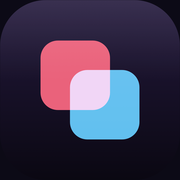
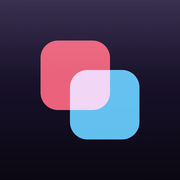
Address review: accurate FAQ claims, sturdier site check
- FileMerge answer: FileMerge follows Dark Mode, so name what is actually
  different (color themes with custom and .tmTheme import).
- Privacy answer: say the app never uploads files and that its own
  traffic is the update check and an update download, instead of
  "the only network request".
- Drop the HowTo node: it had no visible counterpart and Google no longer
  shows HowTo results. Drop the unchecked release date from llms.txt.
- Meta description trimmed to ~150 characters.
- apple-touch-icon is now full-bleed so iOS's own mask leaves no dark
  corners.
- check-site.py: 404.html references must be root-relative; missing
  MARKETING_VERSION, prerelease versions, missing FAQ fields, an empty
  lastmod, and <summary> attributes no longer crash or mislead.
- AGENTS.md Releases section notes the site version bump.

Claude-Session: https://claude.ai/code/session_01SuBK5rQL82kFLVKMsSeYU9

Changed region(s): [[0.7778, 0.0, 1.0, 0.2222], [0.0, 0.0, 0.2222, 0.2222]]

diff --git a/site/index.html b/site/index.html
@@ -4,7 +4,7 @@
   <meta charset="utf-8" />
   <meta name="viewport" content="width=device-width, initial-scale=1" />
   <title>Differentialis — free diff &amp; merge app for Mac</title>
-  <meta name="description" content="Free, open-source diff and merge app for Mac. Compare text files, pasted snippets, images, and folders, resolve three-way merges, and browse git history. Native SwiftUI." />
+  <meta name="description" content="Free, open-source diff and merge app for Mac. Compare text files, pasted snippets, images, and folders, resolve three-way merges, and browse git history." />
   <meta name="author" content="Jenny Speelman" />
   <meta name="robots" content="index, follow, max-image-preview:large" />
   <meta name="theme-color" content="#0b0a12" />
@@ -32,10 +32,10 @@
   <link rel="preconnect" href="https://fonts.gstatic.com" crossorigin />
   <link href="https://fonts.googleapis.com/css2?family=Geist:wght@400;500;600;700;800&family=Geist+Mono:wght@400;500&display=swap" rel="stylesheet" />
   <link rel="stylesheet" href="styles.css" />
-  <!-- Structured data: what the app is, where its source lives, how to install it, and the FAQ
-       shown on the page. Keep the FAQ in sync with the visible #faq section, softwareVersion and the
-       visible version with MARKETING_VERSION in project.yml, and dateModified with the sitemap's
-       lastmod; scripts/check-site.py fails if they drift. -->
+  <!-- Structured data: what the app is, where its source lives, and the FAQ shown on the page.
+       Keep the FAQ in sync with the visible #faq section, softwareVersion and the visible version
+       with MARKETING_VERSION in project.yml, and dateModified with the sitemap's lastmod;
+       scripts/check-site.py fails if they drift. -->
   <script type="application/ld+json">
   {
     "@context": "https://schema.org",
@@ -120,20 +120,6 @@
         "author": { "@id": "https://www.differentialis.app/#author" }
       },
       {
-        "@type": "HowTo",
-        "@id": "https://www.differentialis.app/#install",
-        "name": "How to install Differentialis on a Mac",
-        "description": "Install the free Differentialis diff and merge app on macOS 26 Tahoe or later.",
-        "totalTime": "PT2M",
-        "tool": [{ "@type": "HowToTool", "name": "A Mac running macOS 26 Tahoe or later" }],
-        "step": [
-          { "@type": "HowToStep", "position": 1, "name": "Download", "text": "Download the Apple-notarized Differentialis .dmg from the latest GitHub release.", "url": "https://github.com/yennster/differentialis/releases/latest" },
-          { "@type": "HowToStep", "position": 2, "name": "Install", "text": "Open the .dmg and drag Differentialis into the Applications folder." },
-          { "@type": "HowToStep", "position": 3, "name": "Open", "text": "Open Differentialis from Applications. It checks for updates itself from then on." },
-          { "@type": "HowToStep", "position": 4, "name": "Add the command-line tool (optional)", "text": "Choose Differentialis ▸ Install Command Line Tool… to run differentialis from Terminal." }
-        ]
-      },
-      {
         "@type": "FAQPage",
         "@id": "https://www.differentialis.app/#faq",
         "mainEntity": [
@@ -180,7 +166,7 @@
           {
             "@type": "Question",
             "name": "Does Differentialis upload my files?",
-            "acceptedAnswer": { "@type": "Answer", "text": "No. Every comparison and merge runs locally on your Mac, and your files never leave it. The only network request Differentialis makes is checking GitHub Releases for app updates. There's no account and no telemetry." }
+            "acceptedAnswer": { "@type": "Answer", "text": "No. Every comparison and merge runs locally on your Mac, and Differentialis never uploads your files. Its own network traffic is checking GitHub Releases for updates, and downloading one when you choose to update. There's no account and no telemetry." }
           },
           {
             "@type": "Question",
@@ -200,7 +186,7 @@
           {
             "@type": "Question",
             "name": "How is Differentialis different from FileMerge?",
-            "acceptedAnswer": { "@type": "Answer", "text": "FileMerge (opendiff) comes with Xcode and compares text files and folders. Differentialis doesn't need Xcode, and adds image and pasted-text comparison, git history and branch comparisons, and light and dark themes." }
+            "acceptedAnswer": { "@type": "Answer", "text": "FileMerge (opendiff) comes with Xcode and compares text files and folders. Differentialis doesn't need Xcode, and adds image and pasted-text comparison, git history and branch comparisons, and color themes with custom and .tmTheme import." }
           }
         ]
       }
@@ -561,9 +547,9 @@ differentialis base.txt mine.txt theirs.txt</code></pre>
         </details>
         <details class="glass" data-reveal>
           <summary><h3>Does Differentialis upload my files?</h3></summary>
-          <p>No. Every comparison and merge runs locally on your Mac, and your files never leave it. The
-            only network request Differentialis makes is checking GitHub Releases for app updates.
-            There's no account and no telemetry.</p>
+          <p>No. Every comparison and merge runs locally on your Mac, and Differentialis never uploads
+            your files. Its own network traffic is checking GitHub Releases for updates, and
+            downloading one when you choose to update. There's no account and no telemetry.</p>
         </details>
         <details class="glass" data-reveal>
           <summary><h3>How do I install and update Differentialis?</h3></summary>
@@ -589,7 +575,7 @@ differentialis base.txt mine.txt theirs.txt</code></pre>
           <summary><h3>How is Differentialis different from FileMerge?</h3></summary>
           <p>FileMerge (<code>opendiff</code>) comes with Xcode and compares text files and folders.
             Differentialis doesn't need Xcode, and adds image and pasted-text comparison, git history
-            and branch comparisons, and light and dark themes.</p>
+            and branch comparisons, and color themes with custom and <code>.tmTheme</code> import.</p>
         </details>
       </div>
     </section>

diff --git a/scripts/check-site.py b/scripts/check-site.py
@@ -49,6 +49,9 @@ for document, base in DOCUMENTS.items():
             if not is_local(ref) or not path:
                 continue
             checked += 1
+            # The 404 page is served at any depth (/a/b), so a relative reference would break there.
+            if document.name == "404.html" and not ref.startswith("/"):
+                problems.append(f"{document.relative_to(ROOT)}: {ref} must be root-relative (start with /)")
             # Root-relative paths ("/styles.css") resolve against the document's site root.
             if not (base / path.lstrip("/")).exists():
                 problems.append(f"{document.relative_to(ROOT)}: missing file {ref}")
@@ -77,11 +80,13 @@ def node_of(kind: str):
 
 faq = node_of("FAQPage")
 visible = [(plain(q), plain(a)) for q, a in
-           re.findall(r"<summary>(.*?)</summary>\s*<p>(.*?)</p>", html, re.S)]
+           re.findall(r"<summary[^>]*>((?:(?!</summary>).)*)</summary>\s*<p>((?:(?!</p>|<summary).)*)</p>", html, re.S)]
+if len(visible) != html.count("<summary"):
+    problems.append("site/index.html: every visible FAQ answer must be a single <p> right after its <summary>")
 if faq is None:
     problems.append("site/index.html: no FAQPage structured data")
 else:
-    marked_up = [(q["name"], q["acceptedAnswer"]["text"]) for q in faq.get("mainEntity", [])]
+    marked_up = [(q.get("name"), (q.get("acceptedAnswer") or {}).get("text")) for q in faq.get("mainEntity", [])]
     if [q for q, _ in marked_up] != [q for q, _ in visible]:
         problems.append("site/index.html: FAQ structured data and the visible FAQ list different questions\n"
                         f"    structured: {[q for q, _ in marked_up]}\n    visible:    {[q for q, _ in visible]}")
@@ -92,7 +97,10 @@ else:
                                 f"    structured: {structured}\n    visible:    {shown}")
 
 # Version: what the site and llms.txt say vs. the app's MARKETING_VERSION.
-version = re.search(r'MARKETING_VERSION:\s*"?([\d.]+)', (ROOT / "project.yml").read_text(encoding="utf-8")).group(1)
+match = re.search(r'MARKETING_VERSION:\s*"?([^"\s]+)', (ROOT / "project.yml").read_text(encoding="utf-8"))
+version = match.group(1) if match else None
+if version is None:
+    problems.append("project.yml: no MARKETING_VERSION")
 app = node_of("SoftwareApplication") or {}
 if app.get("softwareVersion") != version:
     problems.append(f"site/index.html: softwareVersion is {app.get('softwareVersion')!r}, project.yml says {version}")
@@ -100,18 +108,19 @@ shown_versions = set(re.findall(r"<span data-version>v?([^<]+)</span>", html))
 if shown_versions != {version}:
     problems.append(f"site/index.html: visible version {sorted(shown_versions)}, project.yml says {version}")
 llms = (SITE / "llms.txt").read_text(encoding="utf-8")
-if f"Current version: {version} " not in llms:
+if not re.search(rf"^- Current version: {re.escape(str(version))}\b", llms, re.M):
     problems.append(f"site/llms.txt: no \"Current version: {version}\" line")
 
 # Sitemap.
 try:
     sitemap = xml.dom.minidom.parse(str(SITE / "sitemap.xml"))
-    lastmod = [node.firstChild.data.strip() for node in sitemap.getElementsByTagName("lastmod")]
+except Exception as error:  # noqa: BLE001 — any parse failure is the finding
+    problems.append(f"site/sitemap.xml: not well-formed ({error})")
+else:
+    lastmod = [node.firstChild.data.strip() if node.firstChild else "" for node in sitemap.getElementsByTagName("lastmod")]
     modified = (node_of("WebPage") or {}).get("dateModified")
     if lastmod != [modified]:
         problems.append(f"site/sitemap.xml: lastmod {lastmod} doesn't match the page's dateModified {modified!r}")
-except Exception as error:  # noqa: BLE001 — any parse failure is the finding
-    problems.append(f"site/sitemap.xml: not well-formed ({error})")
 
 if problems:
     print("Site and README checks failed:")

diff --git a/AGENTS.md b/AGENTS.md
@@ -442,8 +442,8 @@ summaries in step:
 - When `MARKETING_VERSION` changes, update the site's version too: both `data-version` spans,
   `softwareVersion` in the JSON-LD, and the "Current version" line in `llms.txt`. The check
   compares all three with `project.yml`, so a release bump fails CI until the site follows.
-- The FAQ check compares answer text as well as questions; in the JSON-LD write `⌘N` as
-  `Command-N` and drop HTML tags.
+- The FAQ check compares answer text as well as questions. Each visible answer is a single `<p>`
+  right after its `<summary>`; in the JSON-LD write `⌘N` as `Command-N` and drop HTML tags.
 - `site/404.html` is served for unknown paths, so its references are root-relative.
   `site/vercel.json` redirects `/index.html` to `/`. Favicons (`favicon.ico`,
   `apple-touch-icon.png`, `assets/icon-192.png`) are cropped from `assets/icon.png`.
@@ -455,7 +455,11 @@ summaries in step:
 
 `scripts/changelog.sh <version>` extracts release notes from `CHANGELOG.md`; it
 does not publish a release. Bump `MARKETING_VERSION` in `project.yml` and update
-the changelog when cutting one.
+the changelog when cutting one, and in the same commit bump the site's version
+(both `data-version` spans and `softwareVersion` in `site/index.html`, and the
+"Current version" line in `site/llms.txt`); `scripts/check-site.py` fails CI
+until they match. Publish the GitHub release promptly after that commit lands,
+since Vercel deploys `main` and the site then advertises the new version.
 
 `.github/workflows/release.yml` runs on a published GitHub Release or a manual
 tag input. It checks out that tag, builds on macOS 26/Xcode 26, overrides the
